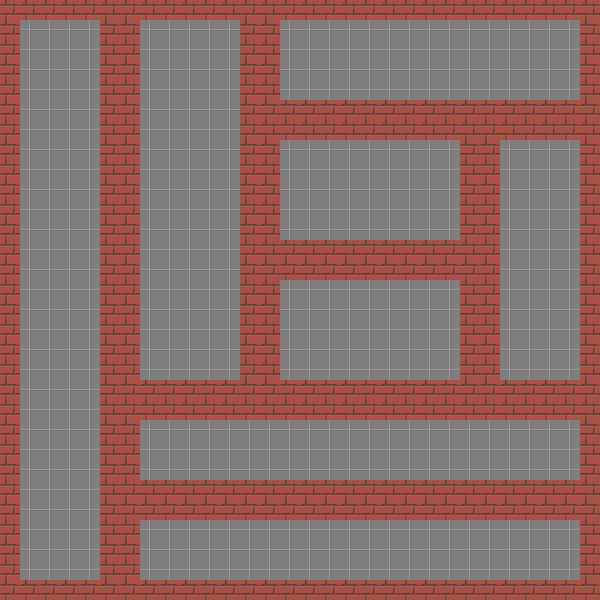
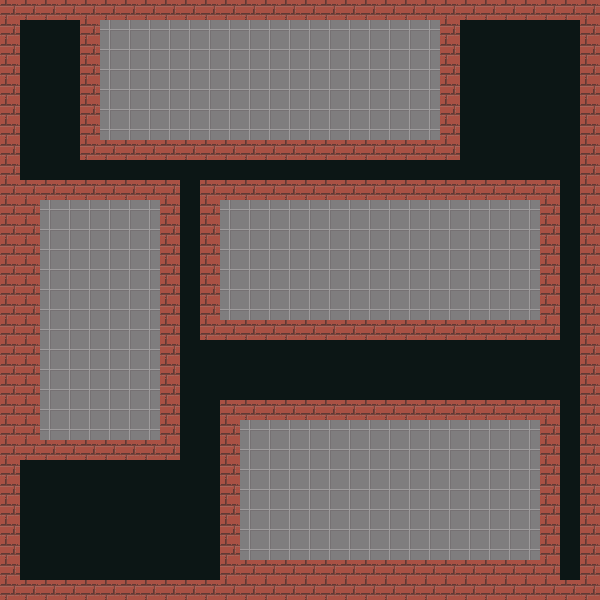
modify BSPTrees

diff --git a/ProcedureGeneration.py b/ProcedureGeneration.py
@@ -30,20 +30,20 @@ class BSPTree(GenAlgorithm):
 		if h == w:
 			if randint(0,1) == 1:
 				tx = randint(border, w-border)
-				ms.append(Matrix(width=tx, height=h, homogeneous=True, value=value, coordinates=[y, x]))
-				ms.append(Matrix(width=h-tx, height=h, homogeneous=True, value=value+1, coordinates=[y, x+tx]))
+				ms.append(Room(width=tx, height=h, homogeneous=True, value=value, coordinates=[y, x]))
+				ms.append(Room(width=h-tx, height=h, homogeneous=True, value=value+1, coordinates=[y, x+tx]))
 			else:
 				ty = randint(border, h-border)
-				ms.append(Matrix(width=w, height=ty, homogeneous=True, value=value, coordinates=[y, x]))
-				ms.append(Matrix(width=w, height=h-ty, homogeneous=True, value=value+1, coordinates=[y+ty, x]))
+				ms.append(Room(width=w, height=ty, homogeneous=True, value=value, coordinates=[y, x]))
+				ms.append(Room(width=w, height=h-ty, homogeneous=True, value=value+1, coordinates=[y+ty, x]))
 		elif h > w:
 			ty = randint(border, h-border)
-			ms.append(Matrix(width=w, height=ty, homogeneous=True, value=value, coordinates=[y, x]))
-			ms.append(Matrix(width=w, height=h-ty, homogeneous=True, value=value+1, coordinates=[y+ty, x]))
+			ms.append(Room(width=w, height=ty, homogeneous=True, value=value, coordinates=[y, x]))
+			ms.append(Room(width=w, height=h-ty, homogeneous=True, value=value+1, coordinates=[y+ty, x]))
 		else:
 			tx = randint(border, w-border)
-			ms.append(Matrix(width=tx, height=h, homogeneous=True, value=value, coordinates=[y, x]))
-			ms.append(Matrix(width=w-tx, height=h, homogeneous=True, value=value+1, coordinates=[y, x+tx]))
+			ms.append(Room(width=tx, height=h, homogeneous=True, value=value, coordinates=[y, x]))
+			ms.append(Room(width=w-tx, height=h, homogeneous=True, value=value+1, coordinates=[y, x+tx]))
 
 		return ms
 
@@ -52,7 +52,7 @@ class BSPTree(GenAlgorithm):
 		btb = matrix.width >= border*2 and matrix.height >= border*2
 		count = 0
 		if not btb:
-			print("МАЛЕНЬКАЯ МАТРИЦА!!!!!!!!!!!")
+			print("МАЛЕНЬКАЯ МАТРИЦАААААААААААА!!!!!!!!!!!")
 		while btb:
 			temp = []
 			btb = False
@@ -72,9 +72,31 @@ class BSPTree(GenAlgorithm):
 			o.bordürtschiki(value="#")
 			matrix.glue(o)
 
+	def smallerRooms(self, ms, halfDepth=2):
+		ms2 = []
+		for i in ms:
+			print("i.coordinates[1]:",i.coordinates[1])
+			print("i.width:", i.width)
+			print("i.coordinates[0]:", i.coordinates[0])
+			print("i.height:", i.height)
+			y = randint(i.coordinates[0], i.coordinates[0]+i.height//2 - halfDepth)
+			x = randint(i.coordinates[1], i.coordinates[1]+i.width//2 - halfDepth)
+			x2 = randint(i.coordinates[1]+i.width//2 + halfDepth, i.coordinates[1]+i.width-1)
+			y2 = randint(i.coordinates[0]+i.height//2 + halfDepth, i.coordinates[0]+i.height-1)
+			w = x2 - x
+			h = y2 - y
+			ms2.append(Room(width=w, height=h, homogeneous=True, value=0, coordinates=[y, x]))
+		return ms2
+
 	def generate(self, height=30, width=30):
+		border = 8
 		matrix = Matrix(width, height, homogeneous=True, value=0)
-		ms = self.split(matrix)
+		ms = self.split(matrix,border)
+		self.matrixJoiner(ms, matrix)
+		matrix.bordürtschiki(value="#")
+		#print(matrix)
+		matrix.fill(0)
+		ms = self.smallerRooms(ms, halfDepth=(border-3)//2)
 		self.matrixJoiner(ms, matrix)
 		matrix.bordürtschiki(value="#")
 		return self.filter(matrix, width, height)
@@ -135,10 +157,11 @@ class Planning(GenAlgorithm):
 								corridor.walls(axis="x")
 								matrix.glue(corridor, allowList)
 								print(matrix)
-								if x != 0:
+								if x != 0 and matrix[x-1] != "c":
 									print(y, x)
 									r2id = self.collisionChecker((y,x), rooms)
-									rooms[r2id].directions.remove("right")
+									if r2id != None and "right" in rooms[r2id].directions:
+										rooms[r2id].directions.remove("right")
 								r.directions.remove("left")
 								exitFlag = True
 								break
@@ -156,10 +179,11 @@ class Planning(GenAlgorithm):
 								corridor = Room(j+1, 3, homogeneous=True, value="c", coordinates=[y-1, x0+w-1])
 								corridor.walls(axis="x")
 								matrix.glue(corridor, allowList)
-								if x != matrix.width-1:
+								if x != matrix.width-1 and matrix[x+1] != "c":
 									print(y,x)
 									r2id = self.collisionChecker((y,x), rooms)
-									rooms[r2id].directions.remove("left")
+									if r2id != None and "left" in rooms[r2id].directions:
+										rooms[r2id].directions.remove("left")
 								r.directions.remove("right")
 								exitFlag = True
 								break
@@ -178,10 +202,11 @@ class Planning(GenAlgorithm):
 								corridor.walls(axis="y")
 								matrix.glue(corridor, allowList)
 								print(matrix)
-								if y != 0:
+								if y != 0 and matrix[y-1] != "c":
 									print(y,x)
 									r2id = self.collisionChecker((y,x), rooms)
-									rooms[r2id].directions.remove("down")
+									if r2id != None and "down" in rooms[r2id].directions:
+										rooms[r2id].directions.remove("down")
 								r.directions.remove("up")
 								exitFlag = True
 								break
@@ -200,10 +225,11 @@ class Planning(GenAlgorithm):
 								corridor.walls(axis="y")
 								matrix.glue(corridor, allowList)
 								print(matrix)
-								if y != matrix.height-1:
+								if y != matrix.height-1 and matrix[y+1] != "c":
 									print(y,x)
 									r2id = self.collisionChecker((y,x), rooms)
-									rooms[r2id].directions.remove("up")
+									if r2id != None and "up" in rooms[r2id].directions:
+										rooms[r2id].directions.remove("up")
 								r.directions.remove("down")
 								exitFlag = True
 								break
@@ -230,11 +256,10 @@ class Planning(GenAlgorithm):
 		for rid, room in enumerate(rooms):
 			y2, x2 = room.coordinates
 			h2, w2 = room.height, room.width
-			if y in (y2, y2+h2-1):
+			if y2 <= y <= y2+h2-1:
+				print("yyyyyyy")
 				if x2 <= x <= x2+w2-1:
-					return rid
-			elif x in (x2, x2+w2-1):
-				if y2 <= y <= y2+h2-1:
+					print("yyyyyyy22222")
 					return rid
 
 	def roomChecker(self, rm, i, rooms, matrix):

diff --git a/matrix_reload.py b/matrix_reload.py
@@ -32,12 +32,12 @@ class Matrix:
         if caption:
             tempMatrix = []
             if type(self.body[0]) != int:
-                tempMatrix.append([])
-                for i in range(len(self.body[0]) + 1):
+                tempMatrix.append([" "])
+                for i in range(len(self.body[0])):
                     tempMatrix[0].append(i)
 
                 for i, o in enumerate(self.body):
-                    tempMatrix.append([i+1])
+                    tempMatrix.append([i])
                     for j, oo in enumerate(self.body[i]):
                         tempMatrix[i+1].append(oo)
         else:

diff --git a/test.py b/test.py
@@ -2,8 +2,8 @@ import pygame as p
 from matrix_reload import *
 from ProcedureGeneration import Planning, BSPTree
 
-pl = Planning()
-#bsp = BSPTree()
+#pl = Planning()
+bsp = BSPTree()
 width, height = 30, 30
 m = Matrix()
 
@@ -19,15 +19,14 @@ locations = {
 }
 
 def generateDungeon():
-	dungeon = pl.generate()
-	#dungeon = bsp.generate()
+	#dungeon = pl.generate()
+	dungeon = bsp.generate()
 	m = dungeon.body
 	for i in range(width):
 		for j in range(height):
 			tile = p.image.load(locations[m[i][j]])
 			surf.blit(tile, (tileSize*j, tileSize*i))
 generateDungeon()
-
 
 while True:
 	for event in p.event.get():
